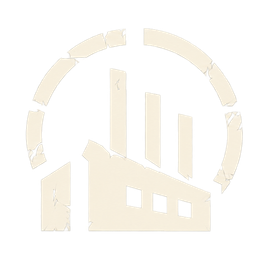
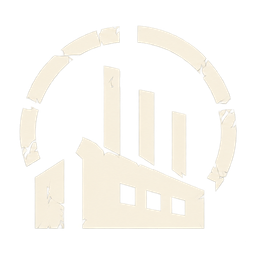
Bug: Center base artwork within selection rings

diff --git a/src/components/base-icons.test.ts b/src/components/base-icons.test.ts
@@ -1,0 +1,23 @@
+import assert from 'node:assert/strict';
+import { test } from 'node:test';
+import sharp from 'sharp';
+
+for (const name of ['factory', 'generator', 'mine']) {
+  test(`${name} artwork is centered inside its selection ring`, async () => {
+    const { data, info } = await sharp(new URL(`../../assets/bases/${name}.png`, import.meta.url).pathname)
+      .ensureAlpha().raw().toBuffer({ resolveWithObject: true });
+    assert.equal(info.width, 256);
+    assert.equal(info.height, 256);
+    let left = info.width, right = -1, top = info.height, bottom = -1;
+    for (let y = 0; y < info.height; y++) for (let x = 0; x < info.width; x++) {
+      const alpha: number = data[(y * info.width + x) * 4 + 3]!;
+      if (x === 0 || y === 0 || x === info.width - 1 || y === info.height - 1) assert.equal(alpha, 0, 'transparent outer padding');
+      if (alpha < 128) continue;
+      left = Math.min(left, x); right = Math.max(right, x);
+      top = Math.min(top, y); bottom = Math.max(bottom, y);
+    }
+    assert.ok(right > left && bottom > top, 'visible artwork');
+    assert.ok(Math.abs(left - (info.width - 1 - right)) <= 2, `uneven horizontal padding: ${left}, ${info.width - 1 - right}`);
+    assert.ok(Math.abs(top - (info.height - 1 - bottom)) <= 2, `uneven vertical padding: ${top}, ${info.height - 1 - bottom}`);
+  });
+}

diff --git a/assets/bases/README.md b/assets/bases/README.md
@@ -8,19 +8,11 @@ Extraction prompt:
 
 > Use case: background-extraction. Input image: edit target, supplied three industrial base emblems. Remove only the near-black background, including the black spaces inside each emblem and black distressed cracks. Return the same three ivory emblems on actual transparent alpha, in the same left-to-right order (factory, satellite relay dish, mining crystals), in one wide sheet. Preserve their exact silhouettes, circular broken arcs, ivory color, distressed details, positions, equal spacing, and proportions. No labels or additional elements, no shadows or glow, no redesign. Preserve the 3:1 wide composition.
 
-Regenerate runtime crops with the installed `sharp` dependency:
+Regenerate runtime crops with the installed `sharp` dependency. The script centers each crop on its visible alpha bounds, so transparent sheet gutters don't shift the emblem inside the selection ring. It preserves the common crop size and artwork scale.
 
 ```sh
-node --input-type=module - <<'JS'
-import sharp from 'sharp';
-for (const [index, name] of ['factory', 'generator', 'mine'].entries()) {
-  await sharp('assets/bases/transparent-sheet.png')
-    .extract({ left: index * 724 + 80, top: 64, width: 600, height: 560 })
-    .resize(248, 248, { fit: 'contain', background: '#00000000' })
-    .extend({ top: 4, bottom: 4, left: 4, right: 4, background: '#00000000' })
-    .png().toFile(`assets/bases/${name}.png`);
-}
-JS
+node scripts/build-base-icons.mjs
+node --import tsx --test src/components/base-icons.test.ts
 ```
 
 Tracking: [issue #58](https://github.com/mcclowes/machination/issues/58).
